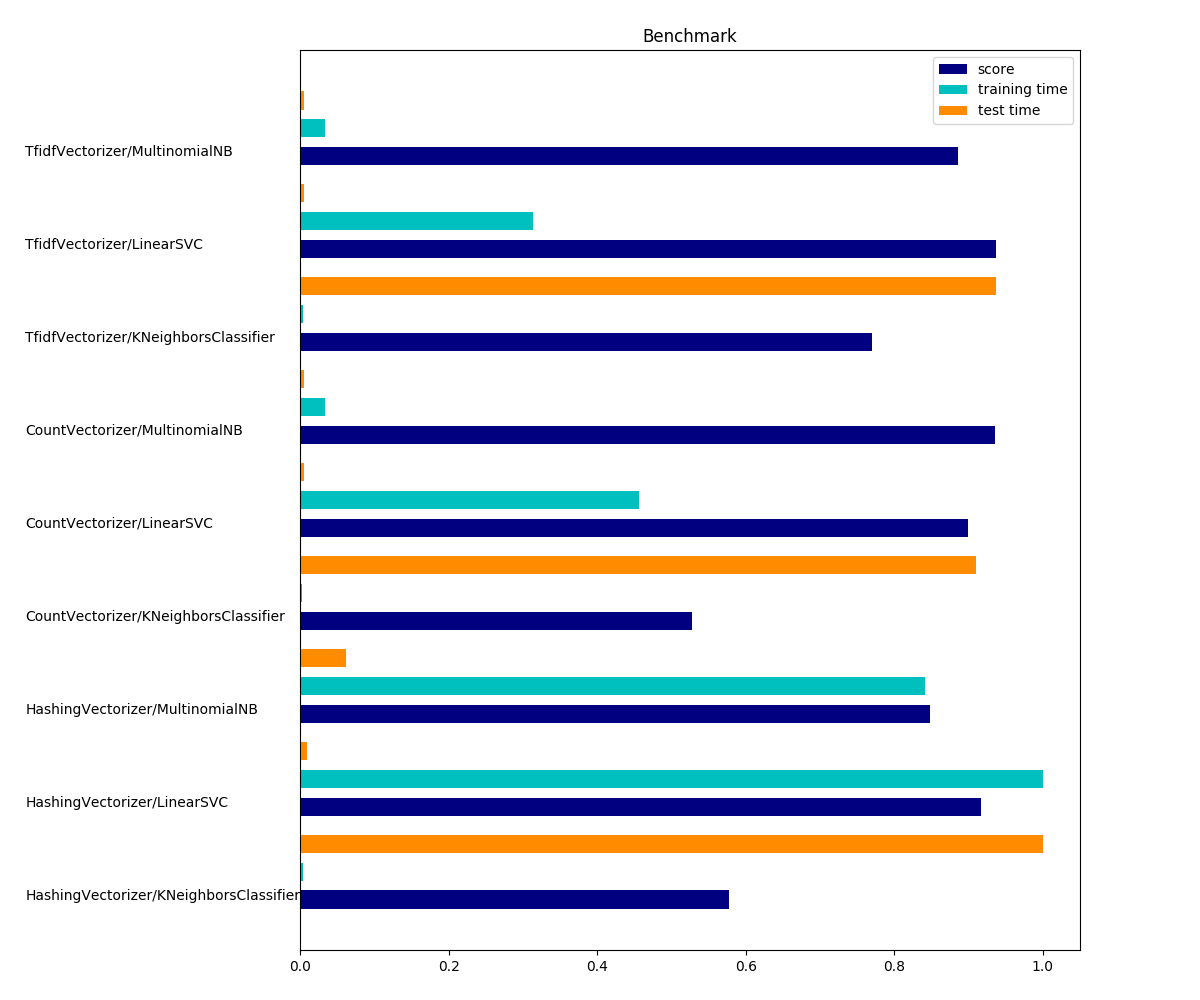
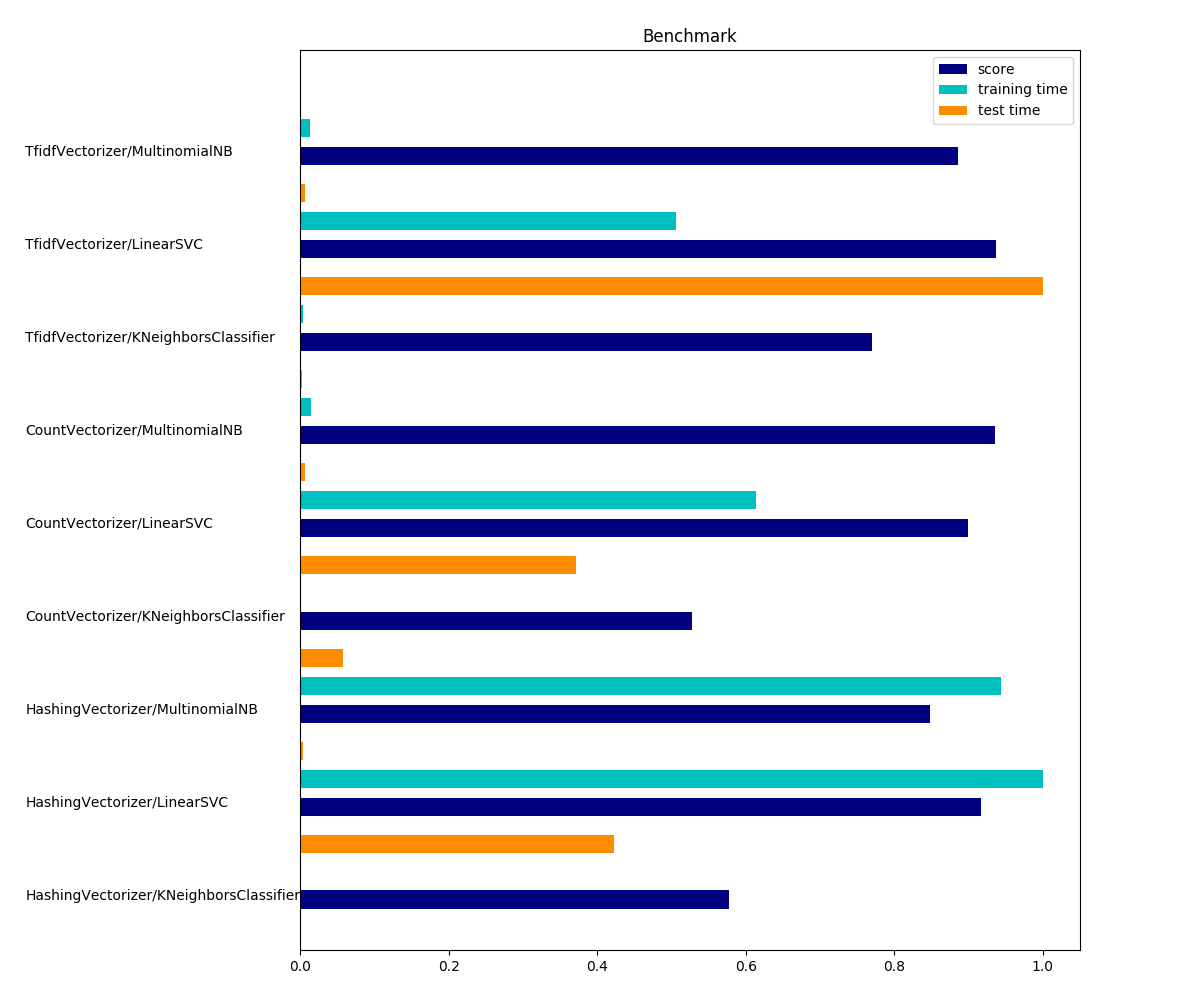
data pre-processing

diff --git a/benchmark.py b/benchmark.py
@@ -4,6 +4,7 @@ import numpy as np
 from utils import size_mb
 from time import time
 from sklearn.datasets import fetch_20newsgroups
+from sklearn.decomposition import TruncatedSVD
 from sklearn.feature_extraction.text import TfidfVectorizer, HashingVectorizer, CountVectorizer
 from sklearn.naive_bayes import MultinomialNB
 from sklearn.neighbors.classification import KNeighborsClassifier
@@ -38,7 +39,7 @@ class Result:
         self.vectorizer = None
 
 
-def benchmark(vectorizer, clf):
+def benchmark(vectorizer, clf, with_pca=False):
     result = Result()
     result.vectorizer = vectorizer
     result.clf = clf
@@ -48,6 +49,10 @@ def benchmark(vectorizer, clf):
     t0 = time()
     X_train = vectorizer.fit_transform(data_train.data)
     X_test = vectorizer.transform(data_test.data)
+    if with_pca:
+        svd = TruncatedSVD(algorithm='arpack')
+        X_train = svd.fit_transform(X_train, y_train)
+        X_test = svd.transform(X_test)
     duration = time() - t0
     result.pre_processing_time = duration
     print('Done in {:.3f}s at {:.3f} MB/s'.format(duration, (train_size_mb + test_size_mb) / duration))
@@ -72,54 +77,87 @@ def benchmark(vectorizer, clf):
     return result
 
 
-results = []
+def plot_results(results, image_name):
+    results = [
+        (x.vectorizer.__class__.__name__ + '/' + x.clf.__class__.__name__, x.score, x.training_time, x.testing_time) for
+        x in results]
 
-hashing = HashingVectorizer(non_negative=True)
-knn = KNeighborsClassifier()
-results.append(benchmark(hashing, knn))
-svc = LinearSVC()
-results.append(benchmark(hashing, svc))
-naive_bayes = MultinomialNB()
-results.append(benchmark(hashing, naive_bayes))
+    indices = np.arange(len(results))
 
-count = CountVectorizer()
-knn = KNeighborsClassifier()
-results.append(benchmark(count, knn))
-svc = LinearSVC()
-results.append(benchmark(count, svc))
-naive_bayes = MultinomialNB()
-results.append(benchmark(count, naive_bayes))
+    clf_names, score, training_time, test_time = [[x[i] for x in results] for i in range(4)]
+    training_time = np.array(training_time) / np.max(training_time)
+    test_time = np.array(test_time) / np.max(test_time)
 
-tfidf = TfidfVectorizer()
-knn = KNeighborsClassifier()
-results.append(benchmark(tfidf, knn))
-svc = LinearSVC()
-results.append(benchmark(tfidf, svc))
-naive_bayes = MultinomialNB()
-results.append(benchmark(tfidf, naive_bayes))
+    plt.figure(figsize=(12, 10))
+    plt.title("Benchmark")
+    plt.barh(indices, score, .2, label="score", color='navy')
+    plt.barh(indices + .3, training_time, .2, label="training time", color='c')
+    plt.barh(indices + .6, test_time, .2, label="test time", color='darkorange')
+    plt.yticks(())
+    plt.legend(loc='best')
+    plt.subplots_adjust(left=.25)
+    plt.subplots_adjust(top=.95)
+    plt.subplots_adjust(bottom=.05)
+
+    for i, c in zip(indices, clf_names):
+        plt.text(-.37, i, c)
+
+    plt.savefig(image_name)
+    plt.show()
 
 
-indices = np.arange(len(results))
+mode = 'datapreprocessing'
 
-results = [(x.vectorizer.__class__.__name__ + '/' + x.clf.__class__.__name__, x.score, x.training_time, x.testing_time) for x in results]
+if mode == 'benchmark':
+    results = []
 
-clf_names, score, training_time, test_time = [[x[i] for x in results] for i in range(4)]
-training_time = np.array(training_time) / np.max(training_time)
-test_time = np.array(test_time) / np.max(test_time)
+    hashing = HashingVectorizer(non_negative=True)
+    knn = KNeighborsClassifier()
+    results.append(benchmark(hashing, knn))
+    svc = LinearSVC()
+    results.append(benchmark(hashing, svc))
+    naive_bayes = MultinomialNB()
+    results.append(benchmark(hashing, naive_bayes))
 
-plt.figure(figsize=(12, 10))
-plt.title("Benchmark")
-plt.barh(indices, score, .2, label="score", color='navy')
-plt.barh(indices + .3, training_time, .2, label="training time", color='c')
-plt.barh(indices + .6, test_time, .2, label="test time", color='darkorange')
-plt.yticks(())
-plt.legend(loc='best')
-plt.subplots_adjust(left=.25)
-plt.subplots_adjust(top=.95)
-plt.subplots_adjust(bottom=.05)
+    count = CountVectorizer()
+    knn = KNeighborsClassifier()
+    results.append(benchmark(count, knn))
+    svc = LinearSVC()
+    results.append(benchmark(count, svc))
+    naive_bayes = MultinomialNB()
+    results.append(benchmark(count, naive_bayes))
 
-for i, c in zip(indices, clf_names):
-    plt.text(-.37, i, c)
+    tfidf = TfidfVectorizer()
+    knn = KNeighborsClassifier()
+    results.append(benchmark(tfidf, knn))
+    svc = LinearSVC()
+    results.append(benchmark(tfidf, svc))
+    naive_bayes = MultinomialNB()
+    results.append(benchmark(tfidf, naive_bayes))
+    image_name = 'data/benchmark.png'
 
-plt.savefig('data/benchmark.png')
-plt.show()
+    plot_results(results, image_name)
+
+elif mode == 'datapreprocessing':
+
+    results = []
+
+    count = CountVectorizer(max_features=100)
+    knn = KNeighborsClassifier()
+    results.append(benchmark(count, knn, with_pca=True))
+    svc = LinearSVC()
+    results.append(benchmark(count, svc, with_pca=True))
+    naive_bayes = MultinomialNB()
+    results.append(benchmark(count, naive_bayes, with_pca=True))
+
+    tfidf = TfidfVectorizer(max_features=100)
+    knn = KNeighborsClassifier()
+    results.append(benchmark(tfidf, knn, with_pca=True))
+    svc = LinearSVC()
+    results.append(benchmark(tfidf, svc, with_pca=True))
+    naive_bayes = MultinomialNB()
+    results.append(benchmark(tfidf, naive_bayes, with_pca=True))
+
+    image_name = 'data/preprocessing.png'
+
+    plot_results(results, image_name)

diff --git a/README.md b/README.md
@@ -170,7 +170,9 @@ This is what feature extraction extends for. This algorithms transform raw text 
 features like the frequency a specific word appears for example.  
 
 There are a lot of variations and with scikit-learn it's simple to do a benchmark through them, so this is what we will 
-do.
+do. Bellow you can see a brief explanation of each technique we will measure. Later on 
+[Data preprocessing](https://github.com/jejung/heimdall#data-preprocessing) section you will find more details of how we
+have applied this techniques on our source dataset.
 
 ##### Count
 
@@ -231,7 +233,7 @@ the results:
 
 ![Benchmark](https://cloud.githubusercontent.com/assets/13054871/24840306/4032cb3e-1d41-11e7-9cb1-d6c664b3ec9b.png)
 
-We can see in the results that as predicted the KNN algorithm has the slowest testing time, the surprise is that it has
+As predicted the KNN algorithm has the slowest testing time, the surprise is that it has
 the worst score. The best combination for a KNN model is the TF-IDF vectorizer, it has a good score but a very high test
 time.
 
@@ -240,14 +242,39 @@ Bayes with the Count value, but in counter part has the slowest training time.
 
 The Multinomial Naive Bayes algorithm performs very well. It has great scores and small training and test times.
 
+This simple benchmark shows us that in combination with any model we are using the Hashing Vectorizer is not so good, so 
+we will discard it from here through the final.
+
 ## III. Methodology
-_(approx. 3-5 pages)_
 
 ### Data Preprocessing
-In this section, all of your preprocessing steps will need to be clearly documented, if any were necessary. From the previous section, any of the abnormalities or characteristics that you identified about the dataset will be addressed and corrected here. Questions to ask yourself when writing this section:
-- _If the algorithms chosen require preprocessing steps like feature selection or feature transformations, have they been properly documented?_
-- _Based on the **Data Exploration** section, if there were abnormalities or characteristics that needed to be addressed, have they been properly corrected?_
-- _If no preprocessing is needed, has it been made clear why?_
+
+As discussed before on Algorithms and Techniques section, for raw text classification we always need some preprocessing.
+
+The first thing to notice is the time that preprocessing takes, about 4 to 5 seconds on our benchmark. To improve the 
+preprocessing time we've tried to reduce the number of features generated by all vectorizers to only 150 but that 
+dropped the performance of all models to below the 50% mark. The time taken was only a little greater than 1 second, so 
+we con continue from here.
+
+To improve our processed data we've tried to use a PCA algorithm so we could choose the best features in a proper time. 
+The idea behind that was to let the vectorizers generate more features and let a PCA decide what features to use, but
+that was so slow we could not even measure.
+
+We have found that when working with sparse matrices the PCA algorithm is very slow because for every feature it needs
+to center all data points around. As the matrices returned by a raw text vectorized are known to be very large we have 
+gave up. We have tried also the NMF - Non-negative Matrix Factorization, an algorithm that can be used for 
+dimensionality reduction, also slow and the Truncated Singular Value - TruncatedSVD on scikit-learn - that performs a 
+linear dimensionality reduction using the truncated singular value decomposition, contrary to PCA there is no need to 
+center data on this algorithm, even that this algorithm was faster, he can return negative values, what is invalid for 
+working with Naive Bayes based algorithms and there was no significant gain working with other classifiers, so we have 
+discarded this algorithm too.
+
+Thinking better of our task here, there is no need to a second algorithm of dimensionality reduction, since the feature
+extraction algorithms we are using can do that!
+
+For example, CountVectorizer has a parameter called `max_features` that causes the result matrix to have only a maximum
+of `n` features. The features chosen will be the `n` top words that appear with more frequency, exactly what we want,
+just the best. For any other vectorizer we are using, the parameter is the same.
 
 ### Implementation
 In this section, the process for which metrics, algorithms, and techniques that you implemented for the given data will need to be clearly documented. It should be abundantly clear how the implementation was carried out, and discussion should be made regarding any complications that occurred during this process. Questions to ask yourself when writing this section:
